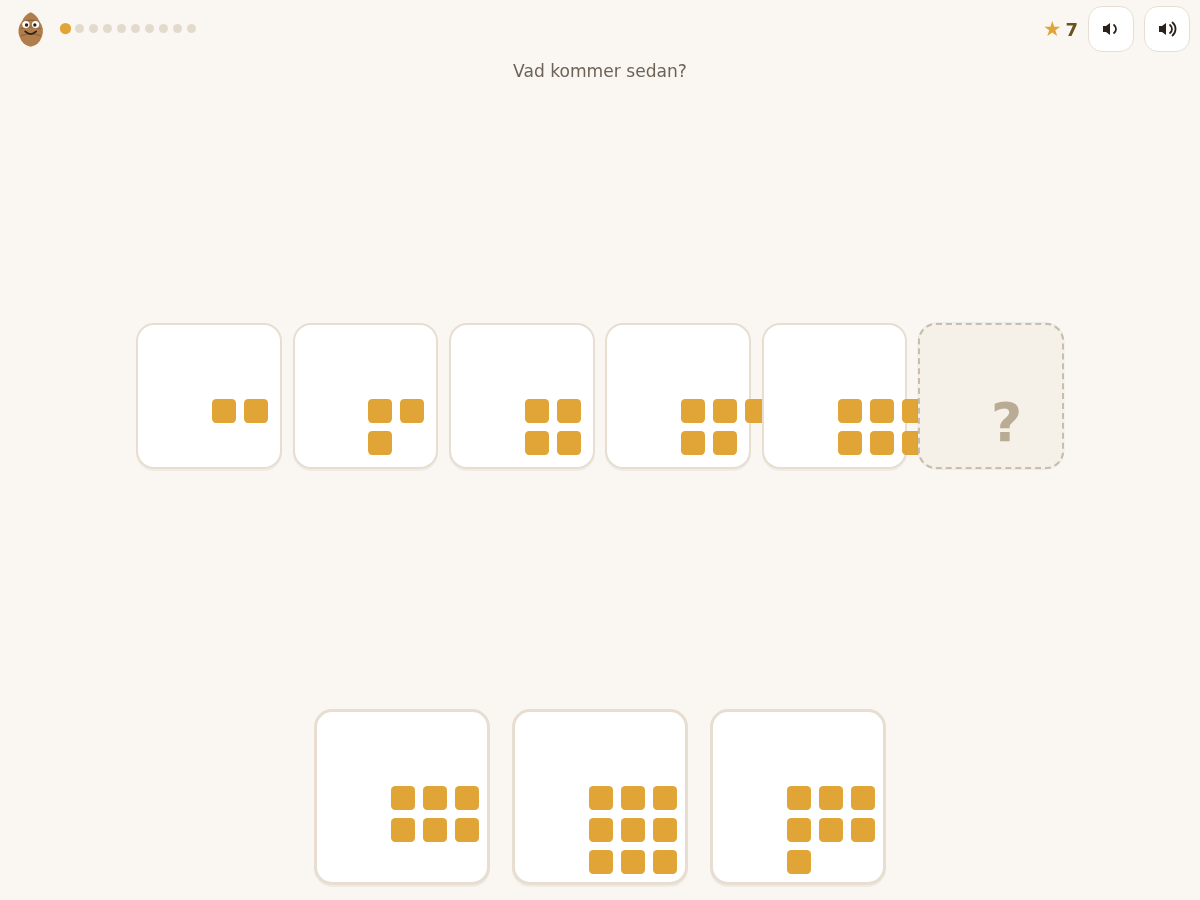
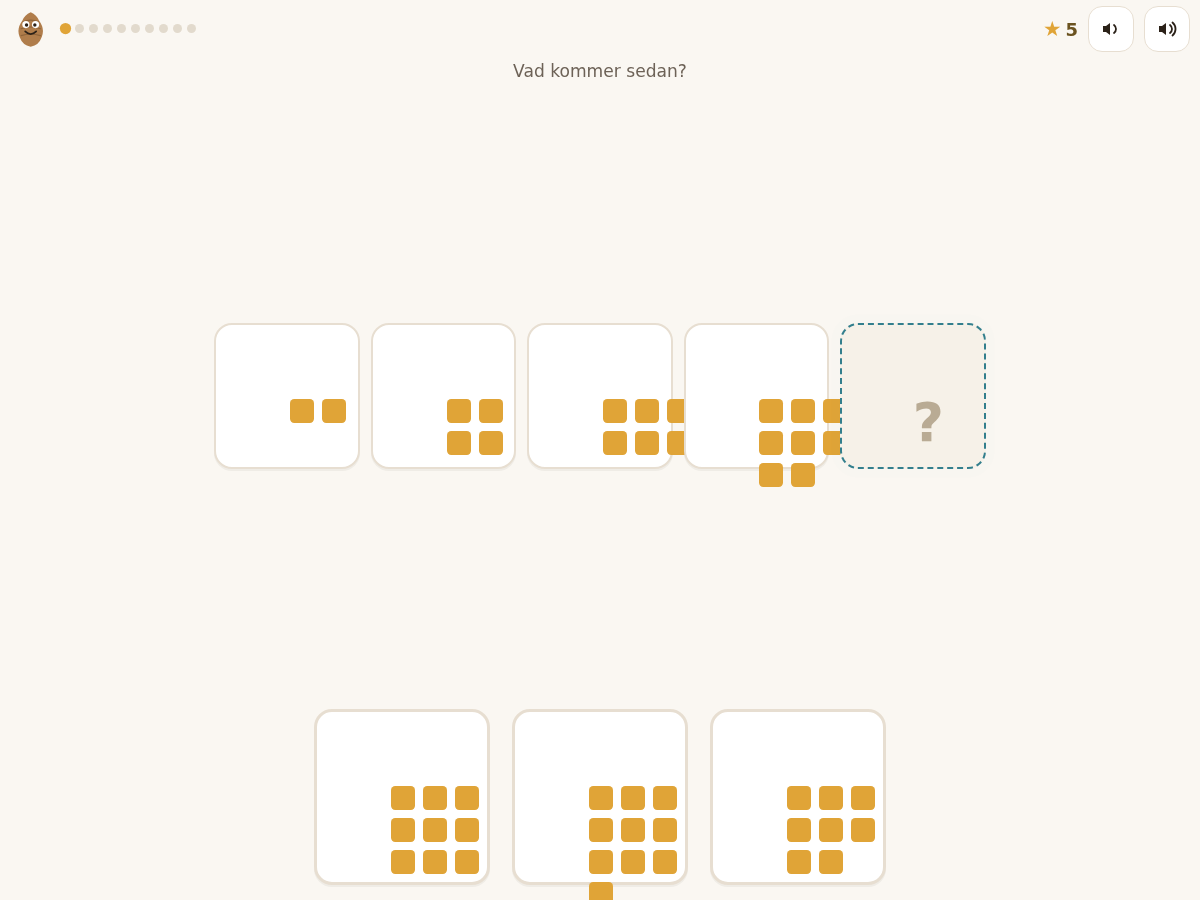
Talföljder i fokus: nivå 1-3 blandar växande serier, två steg, växlande form; ny kortbild

diff --git a/public/index.html b/public/index.html
@@ -4,7 +4,7 @@
 <meta charset="utf-8">
 <meta name="viewport" content="width=device-width, initial-scale=1, viewport-fit=cover">
 <title>Kotten och mönstret – vad kommer sedan? (åk 1–3)</title>
-<meta name="description" content="En rad brickor följer ett mönster. Peka på brickan som kommer sedan: samma former om och om igen, ett mer varje gång eller ett mindre. Tränar mönster i talföljder och geometriska mönster, matematik åk 1–3. Gratis, ingen inloggning.">
+<meta name="description" content="En rad brickor följer ett mönster. Peka på brickan som kommer sedan: ett mer varje gång, ett mindre, eller samma former igen. Tränar talföljder och mönster, matematik åk 1–3. Gratis, ingen inloggning.">
 <meta name="theme-color" content="#faf7f2">
 <link rel="icon" href="favicon.svg" type="image/svg+xml">
 <link rel="apple-touch-icon" href="icon-192.png">
@@ -22,7 +22,7 @@
   <div class="sk-inner">
     <img class="sk-ikon" src="icon-192.png" alt="" width="96" height="96">
     <h1>Kotten och mönstret</h1>
-    <p class="sk-tagline">En rad brickor följer ett mönster. Peka på den som kommer sedan.</p>
+    <p class="sk-tagline">En rad brickor följer ett mönster. Peka på den som kommer sedan – ett mer, ett mindre, eller samma former igen.</p>
     <div class="sk-taggar">
       <span>Matematik</span><span>Åk 1–3</span><span>Mönster</span>
     </div>
@@ -34,7 +34,7 @@
     <details class="sk-laroplan">
       <summary>Läroplanskoppling (Lgr22)</summary>
       <p><b>Matematik, åk 1–3, centralt innehåll:</b> ”Enkla mönster i talföljder och enkla geometriska mönster samt hur de konstrueras, beskrivs och uttrycks.”</p>
-      <p>Varje runda är en rad brickor som följer en regel. Nivå 1 är geometriska mönster som upprepas (triangel, cirkel, triangel …). Nivå 2 är talföljder där antalet ökar eller minskar lika mycket varje steg (ett mer, två mindre). Nivå 3 blandar: en växande rad med fast form, och en rad där både formbytet och antalet ändras samtidigt – då måste barnet hitta två regler i samma rad. Barnet pekar på en av tre brickor; fel svar kostar inget, Kotten funderar och ger en ny chans, och efter två försök pulserar rätt bricka. Regeln sägs och skrivs efter svaret, så barnet lär sig beskriva mönstret med ord – inte bara gissa nästa. Tio uppgifter per nivå, tre nivåer, en stjärna per uppgift som klarats utan hjälp. Källa: Skolverket, läroplanen för grundskolan (Lgr22).</p>
+      <p>Varje runda är en rad brickor som följer en regel, och tyngdpunkten ligger på talföljder: antalet i brickan ändras lika mycket varje steg. Nivå 1 växer med ett om gången (2, 3, 4 …) och blandar in en enkel upprepning som första steg. Nivå 2 är rena talföljder uppåt och nedåt, ett eller två steg i taget. Nivå 3 blandar: växande rad med fast form, och en rad där både formen växlar och antalet ökar – då måste barnet hålla två regler i huvudet samtidigt. Barnet pekar på en av tre brickor; fel svar kostar inget, Kotten funderar och ger en ny chans, och efter två försök pulserar rätt bricka. Regeln sägs och skrivs efter svaret, så barnet lär sig beskriva mönstret med ord – inte bara gissa nästa. Tio uppgifter per nivå, tre nivåer, en stjärna per uppgift som klarats utan hjälp. Källa: Skolverket, läroplanen för grundskolan (Lgr22).</p>
     </details>
   </div>
 </div>

diff --git a/public/monster.js b/public/monster.js
@@ -143,9 +143,9 @@
   /* --- nivåerna -------------------------------------------------------- */
 
   var NIVAA = {
-    1: ["rep2", "rep2", "rep2", "rep3"],
-    2: ["ett_mer", "ett_mindre", "ett_mer", "tvaa_mer", "tvaa_mindre"],
-    3: ["rep3", "vaxer", "tvaa_mer", "tvaa_mindre", "vaxlar", "rep3"]
+    1: ["vaxer", "ett_mer", "vaxer", "rep2"],
+    2: ["ett_mer", "ett_mindre", "tvaa_mer", "tvaa_mindre"],
+    3: ["vaxlar", "tvaa_mer", "tvaa_mindre", "vaxer", "rep3", "vaxlar"]
   };
 
   function enUppgift(rng, sort) {
@@ -166,17 +166,12 @@
 
   /* antal uppgifter per nivå × nivåer = 30 stjärnor */
   function uppgifter(niva, antal, fro) {
-    var rng = mulberry32(fro || 1), sortlista = NIVAA[niva] || NIVAA[1], ut = [], i, forra = null, försök;
-    for (i = 0; i < antal; i++) {
-      försök = 0;
-      var u;
-      do {
-        u = enUppgift(rng, valj(rng, sortlista));
-        försök++;
-      } while (försök < 25 && forra && u.typ === forra.typ && u.regel === forra.regel && u.sekvens.every(function (b, k) { return lika(b, forra.sekvens[k]); }));
-      forra = u;
-      ut.push(u);
-    }
+    var rng = mulberry32(fro || 1), sortlista = NIVAA[niva] || NIVAA[1];
+    /* blanda en kö av sorterna så att varje nivå garanterat blandar dem,
+       i stället för att slumpen kan ge tio likadana uppgifter i rad */
+    var ko = [], ut = [], i;
+    while (ko.length < antal) ko = ko.concat(blanda(rng, sortlista.slice()));
+    for (i = 0; i < antal; i++) ut.push(enUppgift(rng, ko[i]));
     return ut;
   }
 
